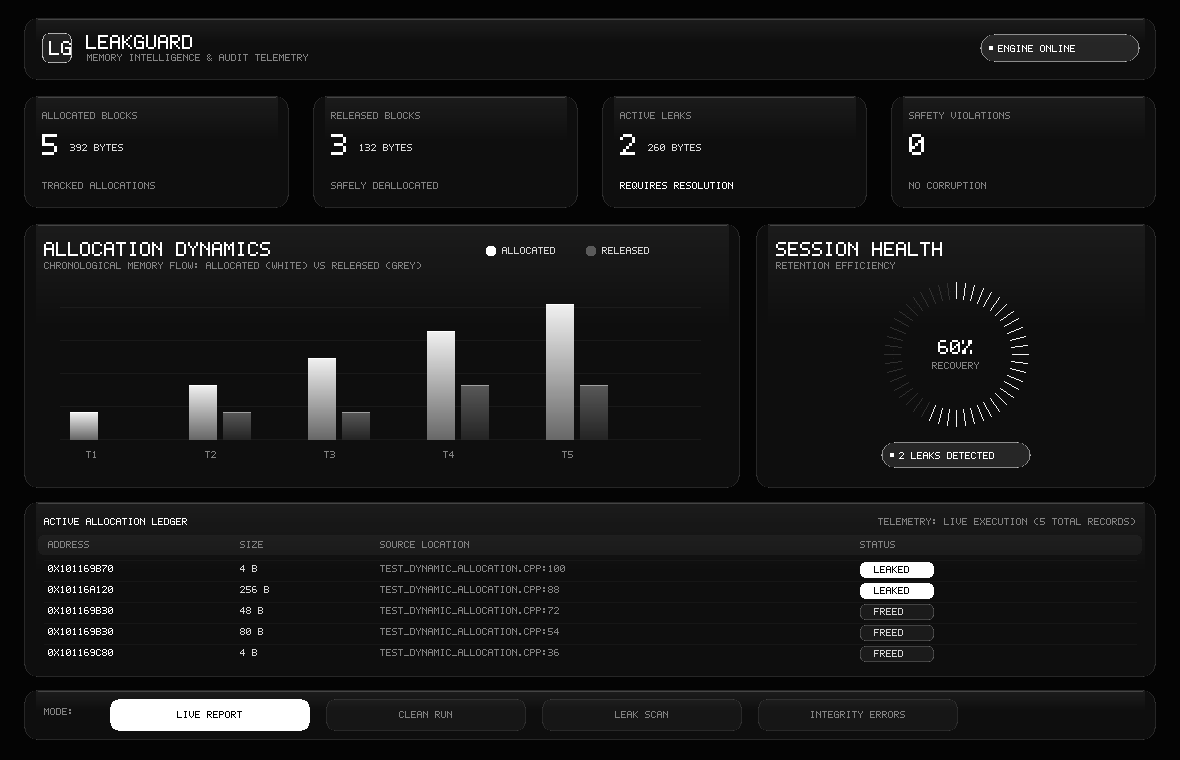
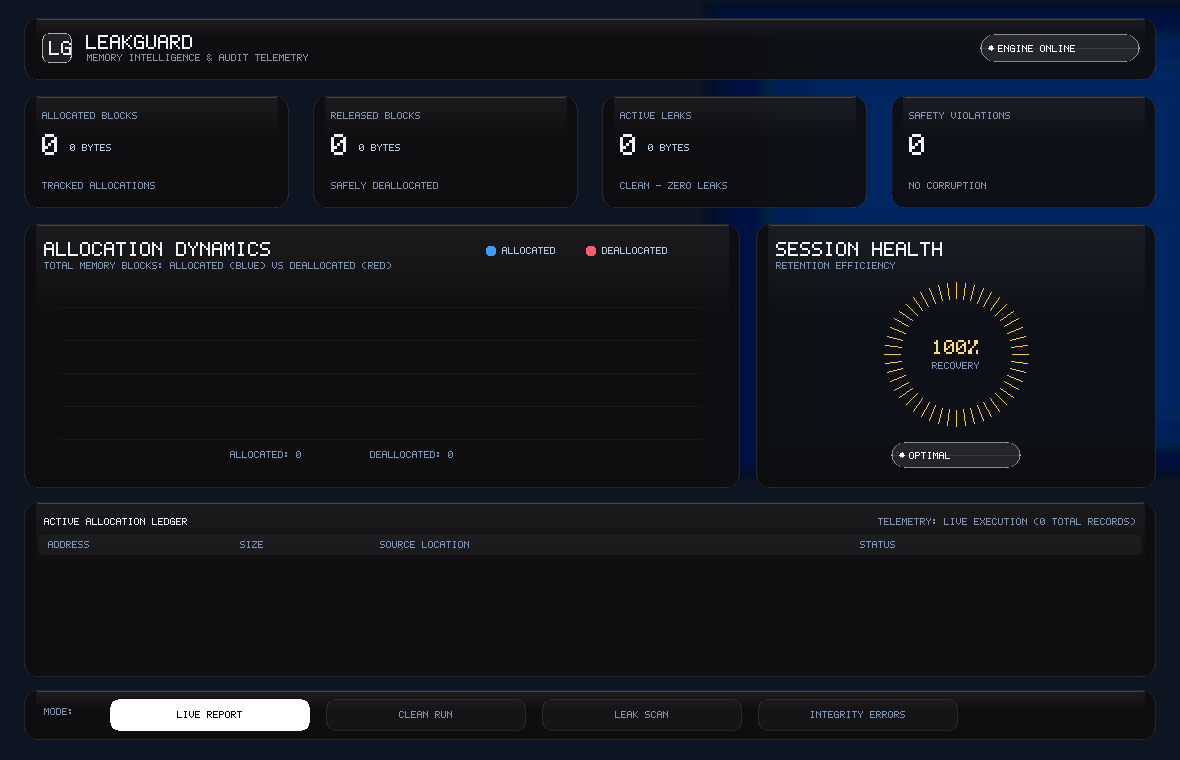
Update dashboard chart and preview

diff --git a/LeakGuardGUI.c b/LeakGuardGUI.c
@@ -1,8 +1,7 @@
 /*
- * LeakGuard — Minimalist Monochrome Dashboard
+ * LeakGuard — Colorful Memory Dashboard
  * Built with C11 & SDL2.
- * Pure Black & White typography and graphs with nuanced grey tones.
- * High-end glassmorphism, specular highlights, and monochrome telemetry.
+ * Cool navy surfaces with blue, red, and yellow telemetry accents.
  */
 
 #include <SDL.h>
@@ -267,14 +266,21 @@ static void draw_pill(SDL_Renderer* r, int x, int y, int w, int h, bool bright, 
 /*  MAIN RENDER PIPELINE                                                     */
 /* ========================================================================= */
 static void draw(SDL_Renderer* r) {
-    const SDL_Color c_bg       = Gray(4);        // Pitch Black
-    const SDL_Color c_white    = Gray(255);      // Pure 100% White
-    const SDL_Color c_silver   = Gray(215);      // Silver / Light Gray
-    const SDL_Color c_muted    = Gray(130);      // Mid Gray
+    const SDL_Color c_bg       = RGBA(13, 20, 34, 255);
+    const SDL_Color c_white    = RGBA(239, 245, 255, 255);
+    const SDL_Color c_silver   = RGBA(185, 201, 222, 255);
+    const SDL_Color c_muted    = RGBA(128, 149, 177, 255);
 
-    // 1. Pure Obsidian Black Canvas
+    // 1. Deep navy canvas with a soft blue glow behind the dashboard
     SDL_SetRenderDrawColor(r, c_bg.r, c_bg.g, c_bg.b, 255);
     SDL_RenderClear(r);
+    for (int i = 0; i < 180; i++) {
+        int alpha = 14 - i / 16;
+        if (alpha < 0) alpha = 0;
+        SDL_SetRenderDrawColor(r, 28, 79, 132, alpha);
+        SDL_Rect glow = {W - 300 - i, 90 - i / 2, 300 + i * 2, 300 + i};
+        SDL_RenderFillRect(r, &glow);
+    }
 
     // -------------------------------------------------------------------------
     // 2. Top Header & Engine Status
@@ -306,7 +312,7 @@ static void draw(SDL_Renderer* r) {
     int leakBytes    = showingLive ? liveLeakedBytes : scn->leakedBytes;
 
     // -------------------------------------------------------------------------
-    // 4. Four Glossy Monochrome KPI Cards
+    // 4. Four Glossy KPI Cards
     // -------------------------------------------------------------------------
     int cardY = 96;
     int cardW = 265;
@@ -365,10 +371,10 @@ static void draw(SDL_Renderer* r) {
     int rightW = W - 48 - leftW - 16;
     int rightX = 24 + leftW + 16;
 
-    // --- Panel A: Allocation Dynamics (Black & White Bar Chart) ---
+    // --- Panel A: Allocation Dynamics (Blue & Red Bar Chart) ---
     draw_glass_card(r, 24, midY, leftW, midH, 12, false);
     draw_text(r, 44, midY + 18, "ALLOCATION DYNAMICS", 2, c_white);
-    draw_text(r, 44, midY + 38, "CHRONOLOGICAL MEMORY FLOW: ALLOCATED (WHITE) VS RELEASED (GREY)", 1, c_muted);
+    draw_text(r, 44, midY + 38, "TOTAL MEMORY BLOCKS: ALLOCATED (BLUE) VS DEALLOCATED (RED)", 1, c_muted);
 
     // Subtle horizontal grid lines
     int chartBaseY = midY + 215;
@@ -379,71 +385,59 @@ static void draw(SDL_Renderer* r) {
         SDL_RenderDrawLine(r, 60, gy, 24 + leftW - 40, gy);
     }
 
-    // Bars: 5 Intervals (T1 to T5)
-    int intervals = 5;
-    int groupWidth = (leftW - 120) / intervals;
-    int maxBlock = allocCount > 0 ? allocCount : 1;
+    // Two bars show the actual totals from the live report or selected scenario.
+    int maxBlock = allocCount > freedCount ? allocCount : freedCount;
+    if (maxBlock < 1) maxBlock = 1;
+    int barW = 72;
+    int allocX = 250;
+    int freedX = 390;
+    int hA = (int)((double)allocCount / maxBlock * chartMaxH);
+    int hF = (int)((double)freedCount / maxBlock * chartMaxH);
 
-    for (int i = 0; i < intervals; i++) {
-        int gx = 70 + i * groupWidth;
-
-        int aVal = (allocCount * (i + 2)) / (intervals + 1);
-        int fVal = (freedCount * (i + 1)) / (intervals + 1);
-        if (aVal > allocCount) aVal = allocCount;
-        if (fVal > freedCount) fVal = freedCount;
-
-        int hA = (int)((double)aVal / maxBlock * chartMaxH);
-        int hF = (int)((double)fVal / maxBlock * chartMaxH);
-        if (hA < 4 && aVal > 0) hA = 4;
-        if (hF < 4 && fVal > 0) hF = 4;
-
-        int barW = 28;
-
-        // Bar 1: Allocated (Glossy Pure White with gradient)
-        if (hA > 0) {
-            for (int dy = 0; dy < hA; dy++) {
-                double t = (double)dy / hA;
-                int lum = (int)(110 + (255 - 110) * t);
-                SDL_SetRenderDrawColor(r, lum, lum, lum, 240);
-                SDL_RenderDrawLine(r, gx, chartBaseY - dy, gx + barW - 1, chartBaseY - dy);
-            }
-            // Specular top highlight cap
-            SDL_SetRenderDrawColor(r, 255, 255, 255, 255);
-            SDL_RenderDrawLine(r, gx, chartBaseY - hA, gx + barW - 1, chartBaseY - hA);
+    if (hA > 0) {
+        for (int dy = 0; dy < hA; dy++) {
+            double t = (double)dy / hA;
+            int red = (int)(35 + (75 - 35) * t);
+            int green = (int)(105 + (180 - 105) * t);
+            int blue = (int)(190 + (65 * t));
+            SDL_SetRenderDrawColor(r, red, green, blue, 245);
+            SDL_RenderDrawLine(r, allocX, chartBaseY - dy, allocX + barW - 1, chartBaseY - dy);
         }
-
-        // Bar 2: Released (Glossy Subtle Grey with gradient)
-        int fx = gx + barW + 6;
-        if (hF > 0) {
-            for (int dy = 0; dy < hF; dy++) {
-                double t = (double)dy / hF;
-                int lum = (int)(40 + (100 - 40) * t);
-                SDL_SetRenderDrawColor(r, lum, lum, lum, 220);
-                SDL_RenderDrawLine(r, fx, chartBaseY - dy, fx + barW - 1, chartBaseY - dy);
-            }
-            // Top specular cap in light grey
-            SDL_SetRenderDrawColor(r, 160, 160, 160, 255);
-            SDL_RenderDrawLine(r, fx, chartBaseY - hF, fx + barW - 1, chartBaseY - hF);
-        }
-
-        // Stage label
-        char tLbl[8];
-        snprintf(tLbl, sizeof(tLbl), "T%d", i + 1);
-        draw_text(r, gx + barW / 2 + 2, chartBaseY + 12, tLbl, 1, c_muted);
+        SDL_SetRenderDrawColor(r, 125, 205, 255, 255);
+        SDL_RenderDrawLine(r, allocX, chartBaseY - hA, allocX + barW - 1, chartBaseY - hA);
     }
 
-    // Chart Legend: Black, White & Grey
-    fill_rounded_rect(r, leftW - 230, midY + 22, 10, 10, 2, c_white);
+    if (hF > 0) {
+        for (int dy = 0; dy < hF; dy++) {
+            double t = (double)dy / hF;
+            int red = (int)(170 + (85 * t));
+            int green = (int)(48 + (52 * t));
+            int blue = (int)(67 + (48 * t));
+            SDL_SetRenderDrawColor(r, red, green, blue, 235);
+            SDL_RenderDrawLine(r, freedX, chartBaseY - dy, freedX + barW - 1, chartBaseY - dy);
+        }
+        SDL_SetRenderDrawColor(r, 255, 150, 150, 255);
+        SDL_RenderDrawLine(r, freedX, chartBaseY - hF, freedX + barW - 1, chartBaseY - hF);
+    }
+
+    char allocLabel[32], freedLabel[32];
+    snprintf(allocLabel, sizeof(allocLabel), "ALLOCATED: %d", allocCount);
+    snprintf(freedLabel, sizeof(freedLabel), "DEALLOCATED: %d", freedCount);
+    draw_text(r, allocX - 20, chartBaseY + 12, allocLabel, 1, c_muted);
+    draw_text(r, freedX - 20, chartBaseY + 12, freedLabel, 1, c_muted);
+
+    // Chart Legend: Blue and Red
+    fill_rounded_rect(r, leftW - 230, midY + 22, 10, 10, 2, RGBA(65, 155, 255, 255));
     draw_text(r, leftW - 214, midY + 23, "ALLOCATED", 1, c_silver);
-    fill_rounded_rect(r, leftW - 130, midY + 22, 10, 10, 2, Gray(90));
-    draw_text(r, leftW - 114, midY + 23, "RELEASED", 1, c_silver);
+    fill_rounded_rect(r, leftW - 130, midY + 22, 10, 10, 2, RGBA(255, 92, 105, 255));
+    draw_text(r, leftW - 114, midY + 23, "DEALLOCATED", 1, c_silver);
 
     // --- Panel B: Session Health & Radial Donut Gauge ---
     draw_glass_card(r, rightX, midY, rightW, midH, 12, false);
     draw_text(r, rightX + 20, midY + 18, "SESSION HEALTH", 2, c_white);
     draw_text(r, rightX + 20, midY + 38, "RETENTION EFFICIENCY", 1, c_muted);
 
-    // High-tech Radial Segment Donut (Monochrome)
+    // High-tech Radial Segment Donut (yellow recovery arc)
     int donutCX = rightX + rightW / 2;
     int donutCY = midY + 130;
     int numPips = 48;
@@ -455,7 +449,7 @@ static void draw(SDL_Renderer* r) {
         double a = deg * M_PI / 180.0;
         int px = donutCX + (int)(64.0 * cos(a));
         int py = donutCY + (int)(64.0 * sin(a));
-        SDL_SetRenderDrawColor(r, 255, 255, 255, 12);
+        SDL_SetRenderDrawColor(r, 255, 207, 75, 28);
         SDL_RenderDrawPoint(r, px, py);
     }
 
@@ -470,24 +464,22 @@ static void draw(SDL_Renderer* r) {
         int y2 = donutCY + (int)(rOuter * sin(angle));
 
         if (p < activePips) {
-            // Pure White for recovered blocks
-            SDL_SetRenderDrawColor(r, 255, 255, 255, 240);
+            SDL_SetRenderDrawColor(r, 255, 207, 75, 245);
         } else {
-            // Dark Grey for unreleased blocks
-            SDL_SetRenderDrawColor(r, 60, 60, 60, 180);
+            SDL_SetRenderDrawColor(r, 64, 76, 94, 220);
         }
         SDL_RenderDrawLine(r, x1, y1, x2, y2);
     }
 
-    // Centered percentage: Pure White
+    // Centered percentage: warm yellow
     char pctStr[16];
     int pctVal = (int)(releaseRatio * 100.0);
     snprintf(pctStr, sizeof(pctStr), "%d%%", pctVal);
     int pW = (int)strlen(pctStr) * 12;
-    draw_text(r, donutCX - pW / 2, donutCY - 14, pctStr, 2, c_white);
+    draw_text(r, donutCX - pW / 2, donutCY - 14, pctStr, 2, RGBA(255, 218, 112, 255));
     draw_text(r, donutCX - 24, donutCY + 8, "RECOVERY", 1, c_muted);
 
-    // Health status pill in monochrome
+    // Health status pill uses yellow to match the recovery gauge
     if (leakCount == 0) {
         draw_pill(r, donutCX - 65, midY + 218, 130, 26, true, "OPTIMAL");
     } else {

diff --git a/README.md b/README.md
@@ -8,7 +8,13 @@ LeakGuard is an educational C++ memory tracking project with a custom hash table
 - Uses a fixed custom hash table with separate chaining for average constant-time address lookup.
 - Keeps a singly linked list for complete report traversal.
 - Reports active leaks, totals, repeated deallocation attempts, and unknown-address frees.
-- Includes a C + SDL2 dashboard with allocation charts and three interactive demo scenarios (`1`–`3`).
+- Includes a C + SDL2 dashboard with a two-bar chart showing actual total allocated and deallocated blocks, plus three interactive demo scenarios (`1`–`3`).
+
+## Dashboard preview
+
+The chart compares total allocated blocks (blue) with total deallocated blocks (red). These bars show totals for the selected live report or demo scenario, not time intervals.
+
+![LeakGuard dashboard preview](gui_preview.png)
 - Includes focused checks for hash lookup and free validation.
 
 ## Build and run (macOS with SDL2)
